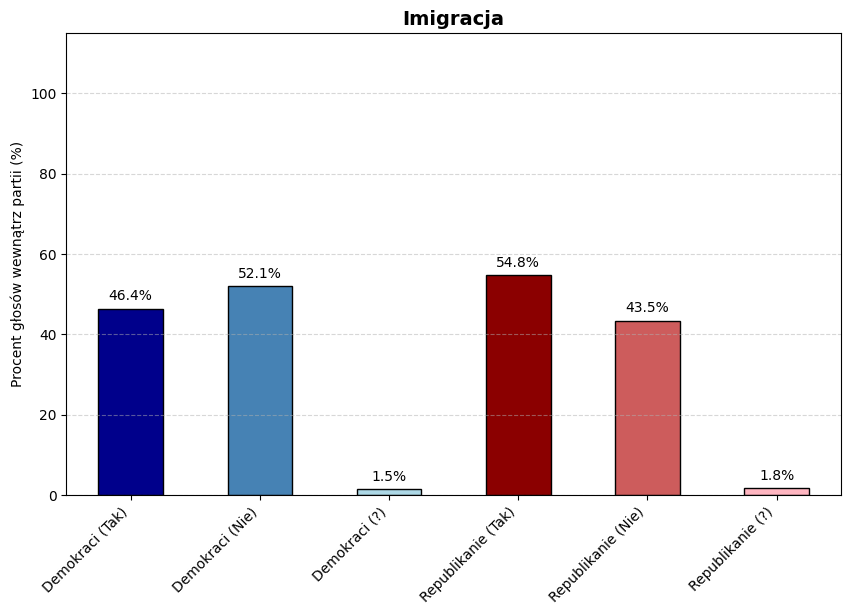
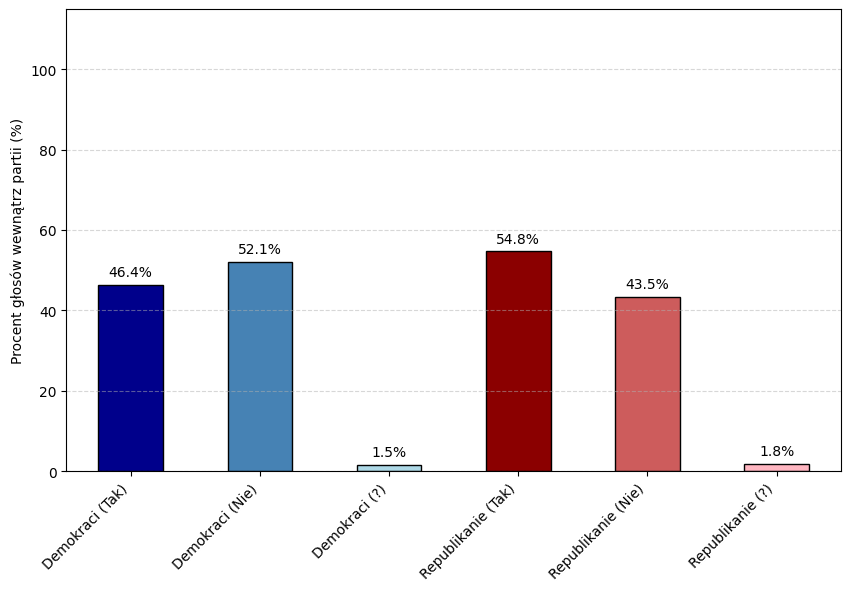
Zmieniono układ podpisów pod listingami

diff --git a/projektAI.tex b/projektAI.tex
@@ -33,9 +33,16 @@ Celem projektu jest realizacja sieci neuronowej do klasyfikacji głosowań kongr
 \section{Dane}
 \subsection{Zestaw danych}
 
-Zestaw danych użyty w projekcie (Congressional Voting Records) pochodzi z UCI Machine Learning Repository i zawiera informacje o głosowaniach kongresmenów w 1984 roku \cite{uciVoting}. Każdy rekord reprezentuje jednego kongresmena i zawiera 16 atrybutów odpowiadających jego głosowaniom w kluczowych kwestiach, a także etykietę klasy (demokrata lub republikanin). Wartości atrybutów są kodowane symbolicznie: \texttt{y} (yea) oznacza tak, \texttt{n} (nay) oznacza nie oraz \texttt{?}. W tym zbiorze \texttt{?} nie oznacza klasycznego braku danych, lecz głos inny niż \texttt{y}/\texttt{n} (np. \emph{present} lub brak jednoznacznie zadeklarowanego stanowiska).
+Zestaw danych użyty w projekcie (Congressional Voting Records) pochodzi z UCI Machine Learning Repository i zawiera informacje o głosowaniach kongresmenów w 1984 roku \cite{uciVoting}. Każdy rekord reprezentuje jednego kongresmena i zawiera 16 atrybutów odpowiadających jego głosowaniom w kluczowych kwestiach, a także etykietę klasy (demokrata lub republikanin). Wartości atrybutów są kodowane symbolicznie: \texttt{y} oznacza tak, \texttt{n} oznacza nie oraz \texttt{?}. W tym zbiorze \texttt{?} nie oznacza klasycznego braku danych, lecz głos inny niż \texttt{y}/\texttt{n} (np. \emph{present} lub brak jednoznacznie zadeklarowanego stanowiska).
 
-Zestaw zawiera 435 rekordów, z czego 45,2\% należy do klasy demokratów, a 54,8\% do republikanów. Każdy rekord składa się z 17 atrybutów: 16 atrybutów głosowań oraz 1 atrybut klasy. Zestaw danych jest stosunkowo mały, co może stanowić wyzwanie dla skutecznego trenowania modelu, zwłaszcza w kontekście unikania przeuczenia.
+Zestaw zawiera 435 rekordów, z czego 61,4\% (267) należy do klasy demokratów, a 38,6\% (168) do republikanów. Każdy rekord składa się z 17 atrybutów: 16 atrybutów głosowań oraz 1 atrybutu klasy.
+
+\begin{figure}[ht]
+\centering
+\includegraphics[width=0.65\textwidth]{\detokenize{wykresy/rozklad_klas.png}}
+\caption{Rozkład klas w zbiorze danych}
+\label{fig:rozklad_klas}
+\end{figure}
 
 Opis poszczególnych atrybutów głosowań jest następujący:
 \begin{itemize}[label={\textbullet}]
@@ -58,7 +65,7 @@ Opis poszczególnych atrybutów głosowań jest następujący:
 \end{itemize}
 
 \subsection{Brakujące dane}
-W zbiorze dane oznaczone symbolem \texttt{?} występują w 248 rekordach, co stanowi 57\% wszystkich rekordów. Jest to znacząca ilość, która nie może zostać zignorowana i usunięta. Takie przypadki mogą wynikają z braku jednoznacznego stanowiska, dlatego w etapie przygotowania danych kodowane są jako neutralne 0. Taki sposób kodowania pozwala na zachowanie informacji, jednocześnie umożliwiając modelowi uczenie się na podstawie tych danych.
+W zbiorze dane oznaczone symbolem \texttt{?} występują w 248 rekordach, co stanowi 57\% wszystkich rekordów. Jest to znacząca ilość, która nie może zostać zignorowana i usunięta, dlatego w etapie przygotowania danych kodowane są jako neutralne 0. Taki sposób kodowania pozwala na zachowanie informacji, jednocześnie umożliwiając modelowi uczenie się na podstawie tych danych.
 
 Przykładowe rekordy ze zbioru wejściowego przedstawiono na listingu \ref{lst:house_votes_missing}.
 

diff --git a/wykresy.py b/wykresy.py
@@ -29,6 +29,40 @@ except Exception as e:
     print(f"Błąd podczas wczytywania pliku: {e}")
     exit()
 
+# Wykres rozkładu klas (Demokraci vs Republikanie)
+try:
+    party_order = ['democrat', 'republican']
+    party_counts = df['partia'].value_counts().reindex(party_order).fillna(0).astype(int)
+    party_pct = (party_counts / party_counts.sum()) * 100
+
+    plt.figure(figsize=(5, 4.5))
+    bars = plt.bar(
+        ['Demokraci', 'Republikanie'],
+        party_pct.values,
+        width=0.45,
+        color=['#00008B', '#8B0000'],
+        edgecolor='black'
+    )
+
+    for bar, pct, cnt in zip(bars, party_pct.values, party_counts.values):
+        plt.text(
+            bar.get_x() + bar.get_width() / 2,
+            bar.get_height() + 1.0,
+            f"{pct:.1f}%\n(n={cnt})",
+            ha='center',
+            va='bottom',
+            fontsize=11
+        )
+
+    plt.ylabel('Udział rekordów (%)')
+    plt.ylim(0, 110)
+    plt.grid(axis='y', linestyle='--', alpha=0.5)
+
+    plt.savefig(f'{output_dir}/rozklad_klas.png', bbox_inches='tight')
+    plt.close()
+except Exception as e:
+    print(f"Błąd podczas generowania wykresu rozkładu klas: {e}")
+
 # Kolory
 colors = ['#00008B', '#4682B4', '#ADD8E6', '#8B0000', '#CD5C5C', '#FFB6C1']
 
@@ -60,7 +94,6 @@ for col in feature_names_pl:
                     textcoords='offset points', fontsize=10)
 
     # Estetyka
-    plt.title(f'{col}', fontsize=14, fontweight='bold')
     plt.ylabel('Procent głosów wewnątrz partii (%)')
     plt.ylim(0, 115)
     plt.xticks(rotation=45, ha='right')
